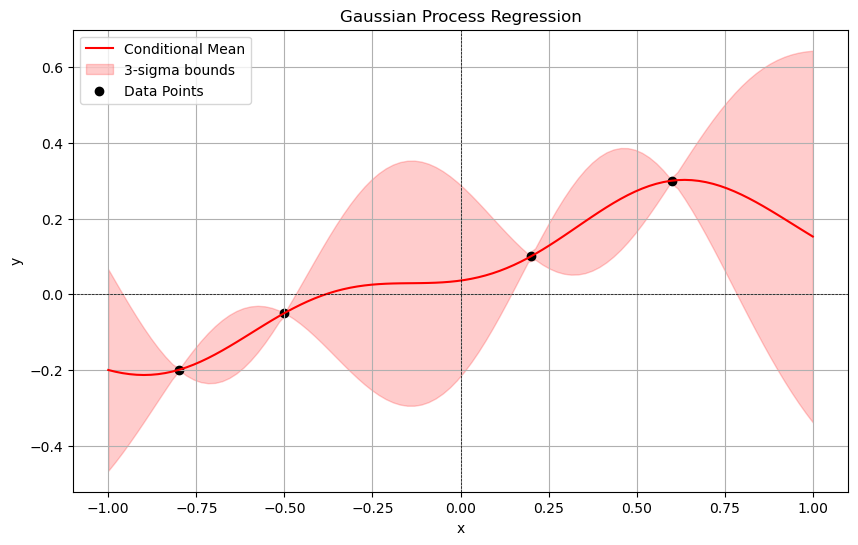
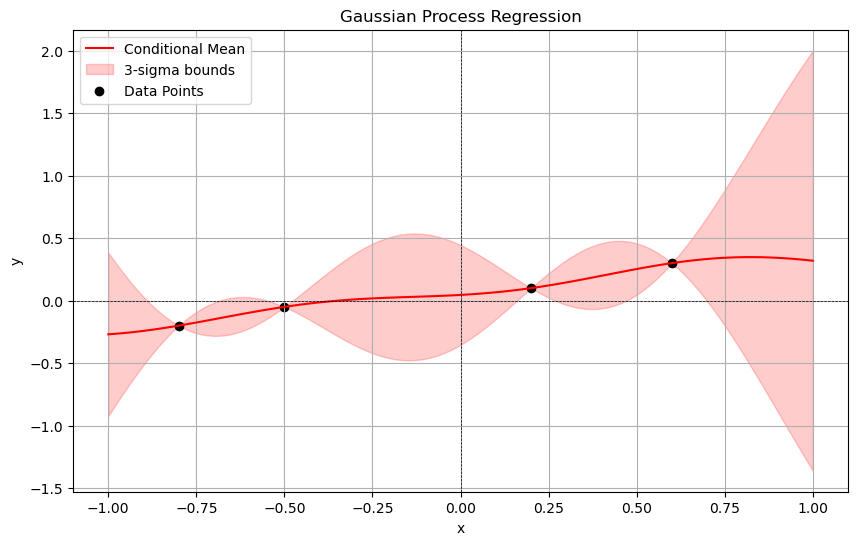
update

diff --git a/_notes/2024-12-09-gaussian-process-regression.md b/_notes/2024-12-09-gaussian-process-regression.md
@@ -25,7 +25,9 @@ Here are some possible forms we believe $y(\mathbf{x})$ can take prior to observ
 <center>
 <figure>
   <img src="../assets/img/prior.png" width="85%">
+  <figcaption><i>Five samples of the Gaussian process with mean function zero and sigma (length scale) equal to 0.5</i></figcaption>
 </figure>
+
 </center>
 
 ## Posterior
